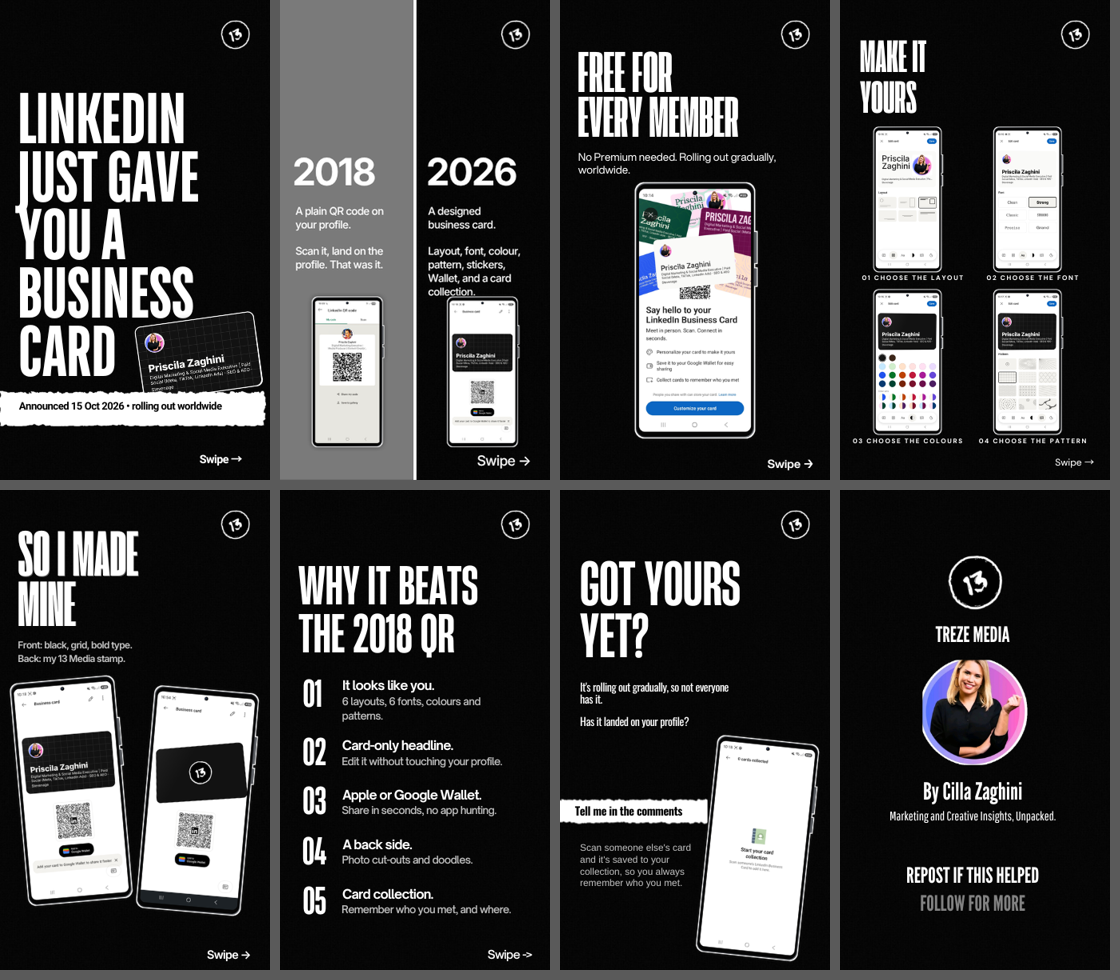
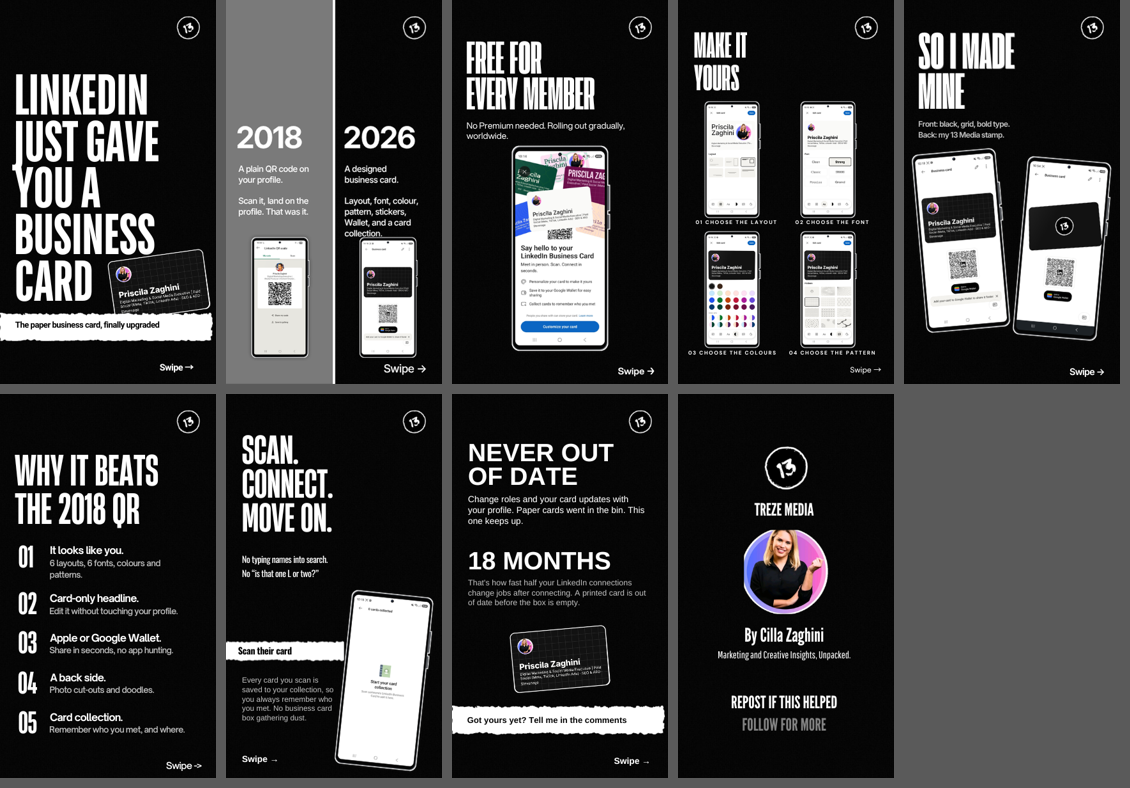
New scanning and never-out-of-date slides, cover strip and caption rewrite
Claude-Session: https://claude.ai/code/session_012ub1frYWNMMWKo3NCDYJJk

diff --git a/linkedin-business-card-post/caption.md b/linkedin-business-card-post/caption.md
@@ -2,24 +2,21 @@
 
 LinkedIn just gave everyone a business card. And it's free. 🪪
 
-LinkedIn officially announced its digital Business Card on 15 October 2026. It showcased the tool at its Connection by Design event in New York and formally unveiled it in a corporate communications update the same day.
+LinkedIn showcased its new digital Business Card at the Connection by Design event in New York, and formally announced it on 15 October 2026. It's rolling out globally over the coming months to every member, whatever their subscription tier.
 
-Since then, it's been rolling out gradually to all members worldwide over the following months, and you don't need Premium.
+It finally solves the offline connection problem LinkedIn first tried to fix in 2018 with profile QR codes. That version worked, but you couldn't customise it or save it anywhere.
 
-It builds on the profile QR code LinkedIn launched in June 2018. That one did a single job: scan it and you landed on someone's profile.
+The 2026 card fixes both:
 
-The 2026 version does a lot more:
+🎨 It pulls your headshot and job role from your profile, adds a scannable QR code, and gives you multiple layouts, fonts, colours and patterns
+📲 You can save it to Apple Wallet or Google Wallet for instant access at events
+📇 You can scan other people's cards and keep them in one collection
+🔄 It updates when you change roles, so it never goes out of date (the problem that killed the paper original)
 
-🎨 It looks like you: 6 layouts, 6 fonts, a full colour palette and patterns
-✏ It has its own headline (up to 100 characters), separate from your profile
-📲 You can save it to Apple Wallet or Google Wallet, so sharing takes seconds
-🖼 The back takes photo cut-outs and doodles. Mine has my 13 Media stamp
-📇 You can collect other people's cards and remember who you met
+For social media managers working events, the value is speed. Scan, connect, move on. No typing names into search, no "is that one L or two?", no business card box gathering dust. And when half your LinkedIn connections change jobs within 18 months of connecting, a card that updates itself actually matters.
 
 So I made mine: black, grid, bold type, and the 13 on the back. (Swipe to see it 👉)
 
-For anyone who goes to events, meetups or networking breakfasts, this is now the easiest way to swap details without a paper card.
+Have you got yours yet? Is it on your profile, or still waiting for the rollout? Tell me in the comments 👇
 
-Have you seen this feature yet? Is it on your profile, or still waiting for the rollout? Tell me in the comments 👇
-
-#LinkedIn #LinkedInTips #PersonalBranding #Networking #SocialMediaMarketing #DigitalMarketing #13Media
+#LinkedIn #LinkedInTips #PersonalBranding #Networking #SocialMediaMarketing #DigitalMarketing #EventMarketing #13Media
